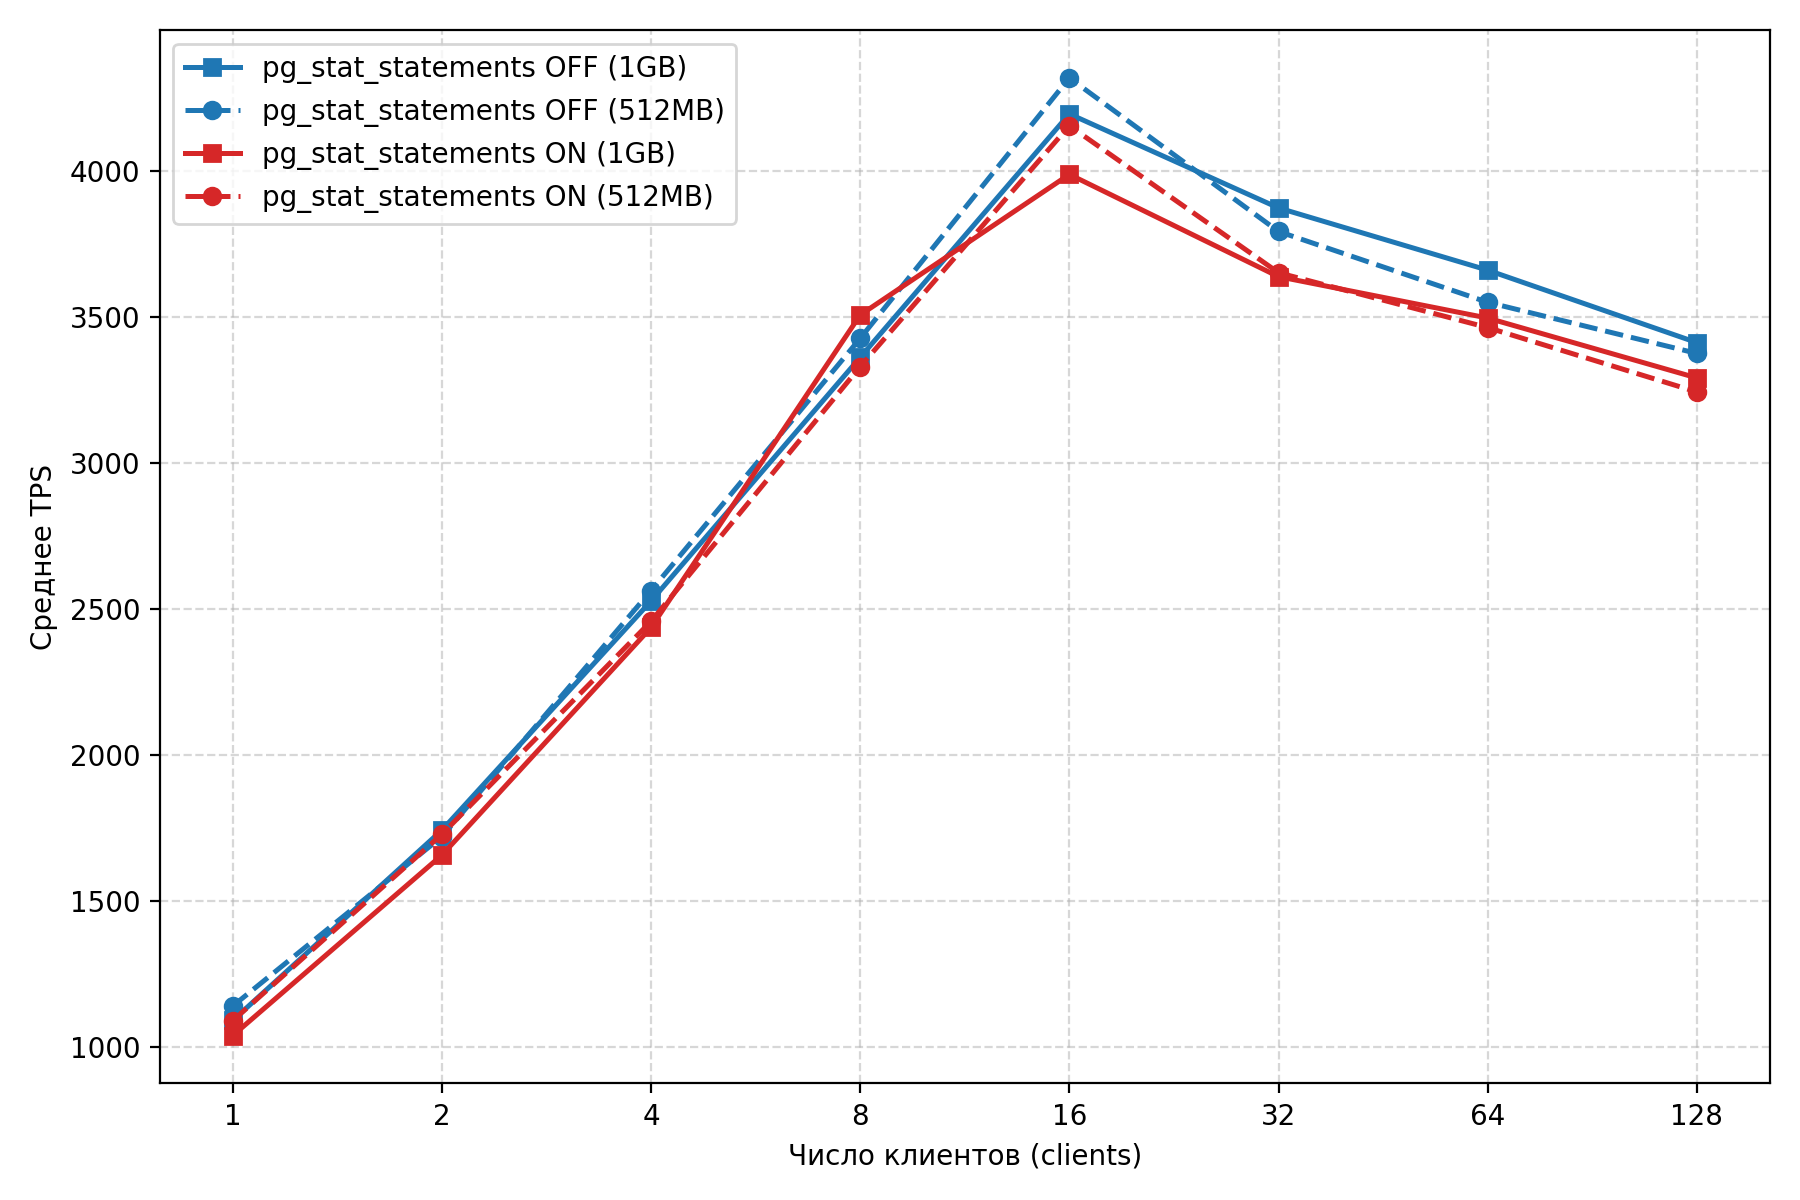
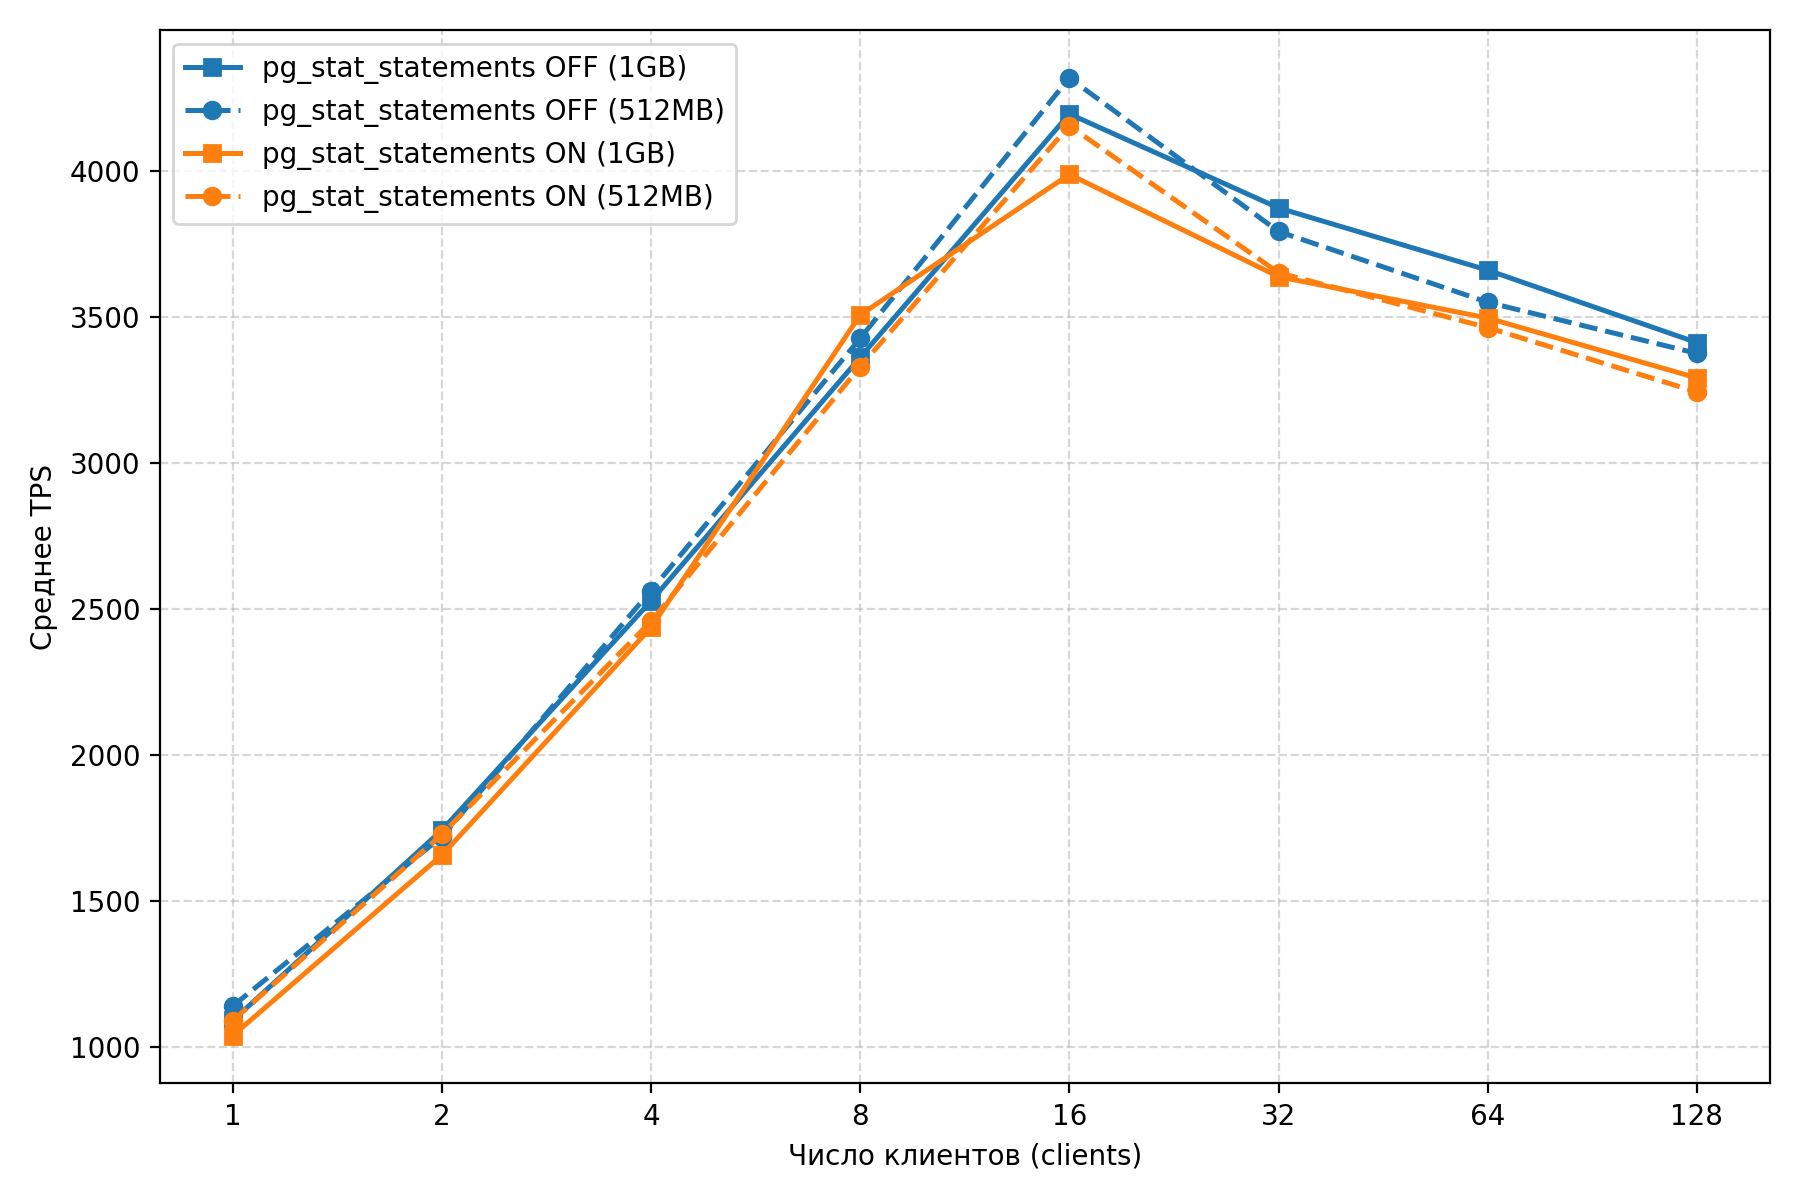
feat: add latency_avg graphs script

diff --git a/python_benchmark_scripts/two_files_lat_graphic_pgbench.py b/python_benchmark_scripts/two_files_lat_graphic_pgbench.py
@@ -1,23 +1,22 @@
 import pandas as pd
 import matplotlib.pyplot as plt
+import sys
 
 # =============================================
-# 1. Настройки: какие файлы и как их рисовать
+# 1. Настройки
 # =============================================
-USED_VERSION = "master"
+
+USED_VERSION = sys.argv[1]
 FILES = {
     "pg_stat_statements OFF": f"tps_results_{USED_VERSION}_base.csv",
     "pg_stat_statements ON": f"tps_results_{USED_VERSION}_exc.csv",
 }
 
-# Цвет линии для каждого файла (matplotlib-имена или hex)
 FILE_COLORS = {
     "pg_stat_statements OFF": "tab:blue",
-    "pg_stat_statements ON": "tab:red",
+    "pg_stat_statements ON": "tab:orange",
 }
 
-# Стиль линии по размеру буфера
-# Ключи должны ТОЧНО совпадать со значениями колонки "buffers" в CSV
 BUFFER_STYLES = {
     "512MB":  {"linestyle": "--", "marker": "o", "label_suffix": " (512MB)"},
     "1GB": {"linestyle": "-",  "marker": "s", "label_suffix": " (1GB)"},
@@ -27,18 +26,17 @@ BUFFER_STYLES = {
 # =============================================
 # 2. Построение графика
 # =============================================
+
 fig, ax = plt.subplots(figsize=(9, 6))
 
 for file_label, filename in FILES.items():
-    # --- читаем CSV и усредняем по повторам ---
     df = pd.read_csv(filename)
-    df["tps"] = pd.to_numeric(df["tps"], errors="coerce")
-    df = df.dropna(subset=["tps"])
-    avg = df.groupby(["buffers", "clients"], as_index=False)["tps"].mean()
+    df["latency_avg"] = pd.to_numeric(df["latency_avg"], errors="coerce")
+    df = df.dropna(subset=["latency_avg"])
+    avg = df.groupby(["buffers", "clients"], as_index=False)["latency_avg"].mean()
 
     color = FILE_COLORS.get(file_label, None)
 
-    # --- рисуем по одной линии на каждый размер буфера ---
     for buffers_value, group in avg.groupby("buffers"):
         style = BUFFER_STYLES.get(
             buffers_value,
@@ -48,7 +46,7 @@ for file_label, filename in FILES.items():
 
         ax.plot(
             group["clients"],
-            group["tps"],
+            group["latency_avg"],
             linestyle=style["linestyle"],
             marker=style["marker"],
             color=color,
@@ -57,17 +55,12 @@ for file_label, filename in FILES.items():
             label=f"{file_label}{style['label_suffix']}",
         )
 
-
 # =============================================
 # 3. Оформление
 # =============================================
-ax.set_xlabel("Число клиентов (clients)")
-ax.set_ylabel("Среднее TPS")
 
-# Лог-шкала по X: 1, 2, 4, ..., 128
-ax.set_xscale("log", base=2)
-ax.set_xticks([1, 2, 4, 8, 16, 32, 64, 128])
-ax.set_xticklabels([1, 2, 4, 8, 16, 32, 64, 128])
+ax.set_xlabel("Число клиентов (clients)")
+ax.set_ylabel("Среднее latency_avg")
 
 ax.grid(True, which="both", linestyle="--", alpha=0.5)
 ax.legend()
@@ -76,5 +69,6 @@ plt.tight_layout()
 # =============================================
 # 4. Сохранение и показ
 # =============================================
-plt.savefig("tps_plot.png", dpi=200)
+
+plt.savefig("lat_plot.png", dpi=200)
 plt.show()

diff --git a/python_benchmark_scripts/two_files_tps_graphic_pgbench.py b/python_benchmark_scripts/two_files_tps_graphic_pgbench.py
@@ -1,0 +1,77 @@
+import pandas as pd
+import matplotlib.pyplot as plt
+import sys
+
+# =============================================
+# 1. Настройки
+# =============================================
+
+USED_VERSION = sys.argv[1]
+FILES = {
+    "pg_stat_statements OFF": f"tps_results_{USED_VERSION}_base.csv",
+    "pg_stat_statements ON": f"tps_results_{USED_VERSION}_exc.csv",
+}
+
+FILE_COLORS = {
+    "pg_stat_statements OFF": "tab:blue",
+    "pg_stat_statements ON": "tab:orange",
+}
+
+BUFFER_STYLES = {
+    "512MB":  {"linestyle": "--", "marker": "o", "label_suffix": " (512MB)"},
+    "1GB": {"linestyle": "-",  "marker": "s", "label_suffix": " (1GB)"},
+}
+
+# =============================================
+# 2. Построение графика
+# =============================================
+
+fig, ax = plt.subplots(figsize=(9, 6))
+
+for file_label, filename in FILES.items():
+    df = pd.read_csv(filename)
+    df["tps"] = pd.to_numeric(df["tps"], errors="coerce")
+    df = df.dropna(subset=["tps"])
+    avg = df.groupby(["buffers", "clients"], as_index=False)["tps"].mean()
+
+    color = FILE_COLORS.get(file_label, None)
+
+    for buffers_value, group in avg.groupby("buffers"):
+        style = BUFFER_STYLES.get(
+            buffers_value,
+            {"linestyle": "-", "marker": "x", "label_suffix": f" ({buffers_value})"},
+        )
+        group = group.sort_values("clients")
+
+        ax.plot(
+            group["clients"],
+            group["tps"],
+            linestyle=style["linestyle"],
+            marker=style["marker"],
+            color=color,
+            linewidth=1.8,
+            markersize=6,
+            label=f"{file_label}{style['label_suffix']}",
+        )
+
+# =============================================
+# 3. Оформление
+# =============================================
+
+ax.set_xlabel("Число клиентов (clients)")
+ax.set_ylabel("Среднее TPS")
+
+ax.set_xscale("log", base=2)
+ax.set_xticks([1, 2, 4, 8, 16, 32, 64, 128])
+ax.set_xticklabels([1, 2, 4, 8, 16, 32, 64, 128])
+
+ax.grid(True, which="both", linestyle="--", alpha=0.5)
+ax.legend()
+plt.tight_layout()
+
+# =============================================
+# 4. Сохранение и показ
+# =============================================
+
+plt.savefig("tps_plot.png", dpi=200)
+plt.show()

diff --git a/python_benchmark_scripts/multyrun_mgbench.py b/python_benchmark_scripts/multyrun_mgbench.py
@@ -9,12 +9,13 @@ import re
 import subprocess
 import time
 from pathlib import Path
+import sys
 
 # =============================================
 # Настройки
 # =============================================
 DB = "pgbench_test"
-USED_VERSION = "master"
+USED_VERSION = sys.argv[1]
 TIME = 60
 THREADS = 2
 BUFFERS_SIZES = ["512MB", "1GB"]
